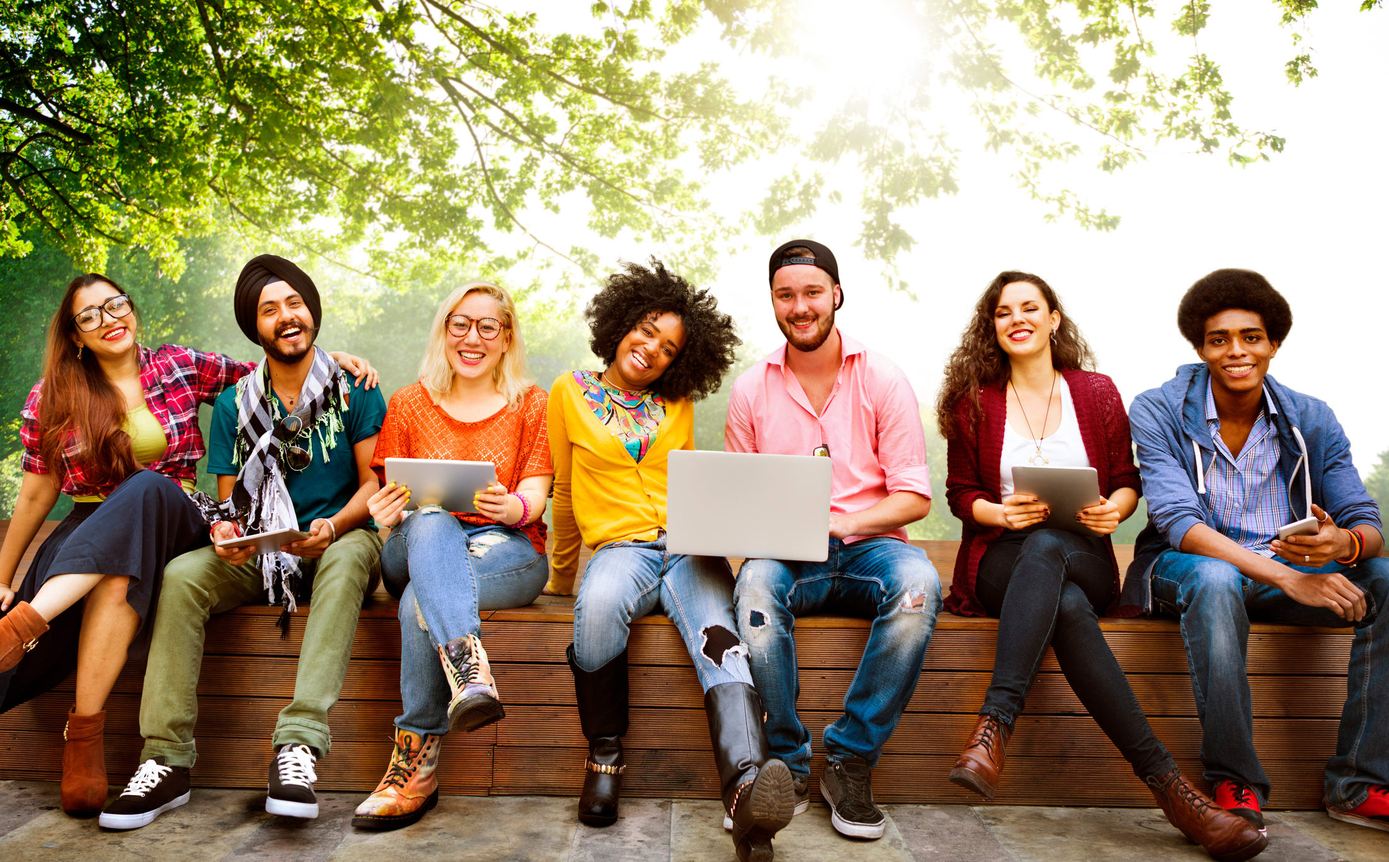
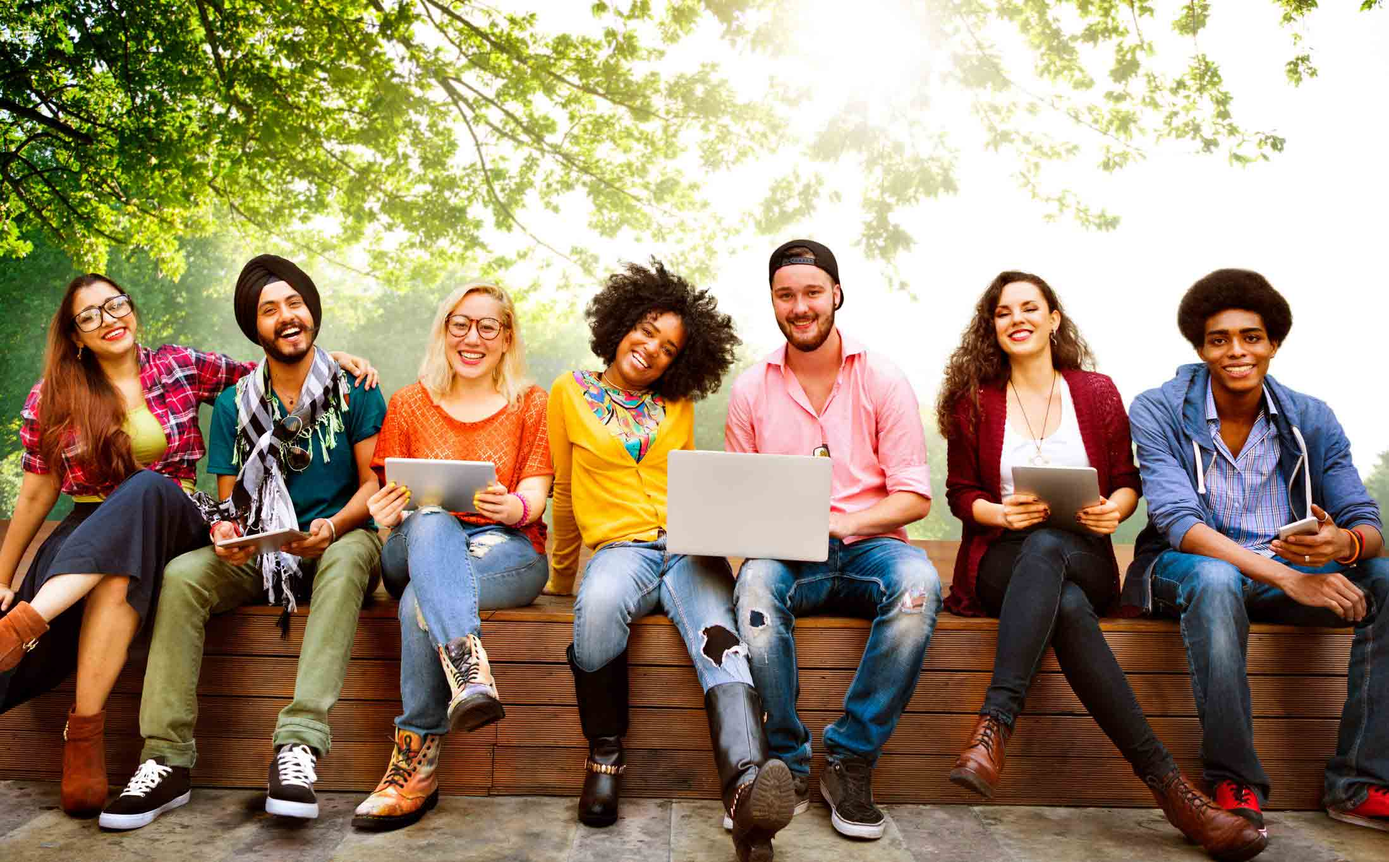
added splash screen and compressed images

diff --git a/static/style/home/style.css b/static/style/home/style.css
@@ -174,6 +174,10 @@ body::-webkit-scrollbar-thumb:hover
   {
     margin:0px 15px !important;
   }
+  .flex-item .sub-title
+  {
+    margin:0px 0px!important;
+  }
 }
 @media (max-width:400px) and (orientation:portrait)
 {
@@ -195,6 +199,10 @@ body::-webkit-scrollbar-thumb:hover
 }
 @media (max-width:300px)
 {
+  .flex-item
+  {
+    margin:10px 2.5px!important;
+  }
   .description .sub-title
   {
     font-size:15px;
@@ -228,10 +236,10 @@ body::-webkit-scrollbar-thumb:hover
   text-align:center;
   background:#212121;
   color:#2196F3;
-  font-size:20px;
+  font-size:16px;
   font-family:var(--font-sub-title);
   letter-spacing:2px;
-  word-spacing:8px;
+  word-spacing:5px;
 }
 #box1
 {
@@ -343,7 +351,7 @@ body::-webkit-scrollbar-thumb:hover
 }
 .flex-list .flex-item:nth-child(1) .image
 {
-  background-image:url("../../images/home/placement-prediction.png");
+  background-image:url("../../images/home/placement-prediction.jpg");
 }
 .flex-list .flex-item:nth-child(2) .image
 {
@@ -398,6 +406,8 @@ body::-webkit-scrollbar-thumb:hover
   .flex-list .flex-item .desc .sub-title
   {
     font-size:16px;
+    margin:10px 20px;
+    line-height:50px!important;
   }
   .flex-list .flex-item:nth-child(odd),.flex-list .flex-item:nth-child(even)
   {
@@ -498,6 +508,14 @@ body::-webkit-scrollbar-thumb:hover
   .flex-item .desc
   {
     margin:10px 5px!important;
+  }
+}
+@media (max-width:900px) and (min-width:400px)
+{
+  .flex-list .flex-item .desc .sub-title
+  {
+    font-size:20px;
+    line-height:40px!important;
   }
 }
 @media (min-width:1100px)
@@ -630,5 +648,43 @@ body::-webkit-scrollbar-thumb:hover
   {
     padding:20px 10px;
     margin:0px 10px;
+  }
+}
+@media (min-width:1150px)
+{
+  nav a::before,nav a::after
+  {
+    content:"";
+    position:absolute;
+    width:0%;
+    height:2px;
+    background:#000000;
+  }
+  nav a::before
+  {
+    bottom:0;
+    left:0;
+    transform:translateY(100%);
+  }
+  nav a::after
+  {
+    top:0;
+    right:0;
+    transform:translateY(-100%);
+  }
+  nav a:hover::before,nav a:hover::after
+  {
+    animation:high-light 0.5s ease-in-out 0s forwards;
+  }
+  @keyframes high-light
+  {
+    0%
+    {
+      width:0%;
+    }
+    100%
+    {
+      width:100%;
+    }
   }
 }

diff --git a/static/style/splash.css b/static/style/splash.css
@@ -1,0 +1,67 @@
+.splash
+{
+  --splash:calc(5vmin + 4vmax + 20px);
+  position:fixed;
+  top:0;
+  left:0;
+  width:100%;
+  height:100%;
+  z-index:1000;
+  background:#FFFFFF;
+  background-image: repeating-radial-gradient(circle at center center, transparent 0px, transparent 2px,rgba(33,150,243, 0.25098039215686274) 2px, rgba(33,150,243, 0.25098039215686274) 3px,transparent 3px, transparent 5px,rgba(33,150,243, 0.25098039215686274) 5px, rgba(33,150,243, 0.25098039215686274) 7px),repeating-radial-gradient(circle at center center, rgb(255,255,255) 0px, rgb(255,255,255) 9px,rgb(255,255,255) 9px, rgb(255,255,255) 21px,rgb(255,255,255) 21px, rgb(255,255,255) 31px,rgb(255,255,255) 31px, rgb(255,255,255) 40px); background-size: 20px 20px;
+  background-position:0% 0%;
+  animation:flow 20s linear infinite normal;
+}
+.splash .icon
+{
+  display:inline-block;
+  width:calc(var(--splash) * 2);
+  height:calc(var(--splash) * 2);
+  background-image:url("../images/favicon.svg");
+  background-size:contain;
+  background-position:center;
+  background-repeat:no-repeat;
+  position:absolute;
+  top:var(--splash);
+  left:calc(50% - var(--splash));
+  animation:floater 3s ease-in-out 0s infinite alternate;
+}
+.splash .loading
+{
+  display:inline-block;
+  width:var(--splash);
+  height:var(--splash);
+  background-image:url("../images/loading.gif");
+  background-size:contain;
+  background-position:center;
+  background-repeat:no-repeat;
+  position:absolute;
+  bottom:var(--splash);
+  left:calc(50% - (var(--splash) / 2));
+}
+@keyframes floater
+{
+  0%
+  {
+    transform:translate(0px,0px);
+  }
+  65%
+  {
+    transform:translate(0px,15px);
+  }
+  100%
+  {
+    transform:translate(0px,0px);
+  }
+}
+@keyframes flow
+{
+  0%
+  {
+    background-position:0% 0%;
+  }
+  100%
+  {
+    background-position:-100% 0%;
+  }
+}

diff --git a/static/style/nav.css b/static/style/nav.css
@@ -51,10 +51,6 @@ a.nav-item .icon svg
   width:100%;
   height:100%;
 }
-/* a:hover .icon svg
-{
-  stroke:#08F;
-} */
 a.nav-item .title
 {
   display:inline-block;
@@ -76,7 +72,7 @@ a.menu
   .top-bar
   {
     width:100%;
-    height:50px;
+    height:var(--nav-height);
     box-shadow:0px 0px 10px 1px #000000;
     z-index:500;
     position:fixed;
@@ -97,8 +93,8 @@ a.menu
     padding:2.5vmin !important;
     position:fixed;
     width:calc(100% - 5vmin);
-    height:calc((100% - 5vmin) - 50px);
-    top:50px;
+    height:calc((100% - 5vmin) - var(--nav-height));
+    top:var(--nav-height);
     left:0;
     z-index:300;
     background:#FFF;
@@ -191,43 +187,5 @@ a.menu
   nav a .icon svg
   {
     stroke-width:1;
-  }
-}
-@media (min-width:1150px)
-{
-  nav a::before,nav a::after
-  {
-    content:"";
-    position:absolute;
-    width:0%;
-    height:2px;
-    background:#000000;
-  }
-  nav a::before
-  {
-    bottom:0;
-    left:0;
-    transform:translateY(100%);
-  }
-  nav a::after
-  {
-    top:0;
-    right:0;
-    transform:translateY(-100%);
-  }
-  nav a:hover::before,nav a:hover::after
-  {
-    animation:high-light 0.5s ease-in-out 0s forwards;
-  }
-  @keyframes high-light
-  {
-    0%
-    {
-      width:0%;
-    }
-    100%
-    {
-      width:100%;
-    }
   }
 }

diff --git a/static/script/home/script.js b/static/script/home/script.js
@@ -4,6 +4,15 @@ var body;
 var _=id=>document.getELementById(id);
 window.onload=()=>{
   body=document.body;
+
+  //Unnecessary delay for loading animation
+  var delay=3000;//seconds
+  setTimeout(()=>{
+    Array.from(document.querySelectorAll(".splash")).forEach(splash=>{
+      splash.parentNode.removeChild(splash);
+    });
+  },delay);
+
   // typeit: subtitle
   var lines=[
     "Campus Placement Management System",

diff --git a/static/style/default-values.css b/static/style/default-values.css
@@ -60,7 +60,10 @@
   --breakpoint-md:768px;
   --breakpoint-lg:992px;
   --breakpoint-xl:1200px;
+
   --font-sub-title:"Roboto","Times New Roman",serif;
   --font-title:"Lemon","Arial Black","Arial",sans-serif;
   --font-monospace:"Consolas","Courier New","SFMono-Regular","Menlo","Monaco","Liberation Mono",monospace;
+
+  --nav-height:50px;
 }
